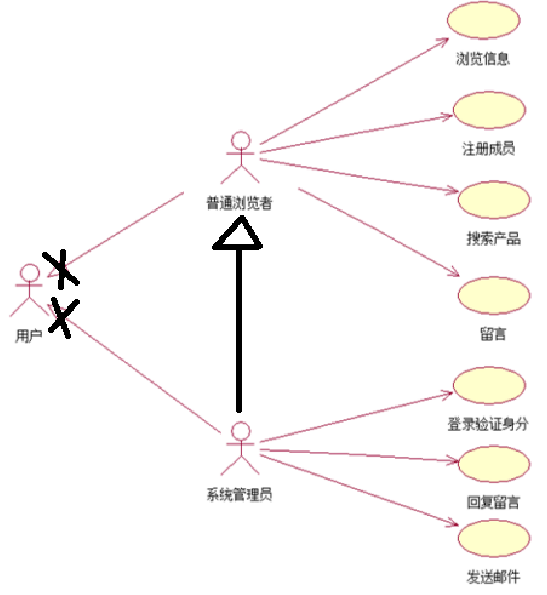
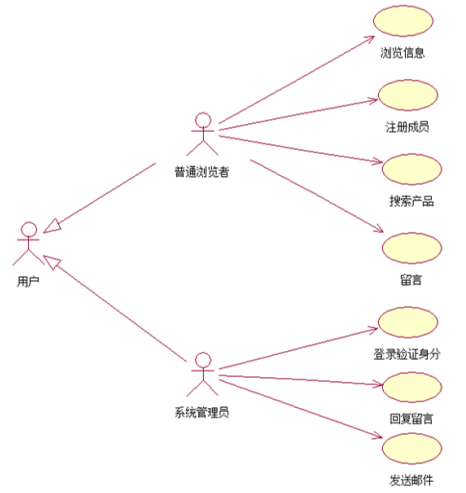
GITBOOK-11: No subject

diff --git a/SUMMARY.md b/SUMMARY.md
@@ -2,7 +2,7 @@
 
 * [🎓 System Analysis and Design & Software Systems & Software Architecture](README.md)
 
-## 一、简答题、综合分析与设计题
+## 🕵♂ 一、简答题、综合分析与设计题
 
 * [1.](yi-jian-da-ti-zong-he-fen-xi-yu-she-ji-ti/1..md)
 * [2.](yi-jian-da-ti-zong-he-fen-xi-yu-she-ji-ti/2..md)
@@ -74,3 +74,26 @@
 * [68.](yi-jian-da-ti-zong-he-fen-xi-yu-she-ji-ti/68..md)
 * [69.](yi-jian-da-ti-zong-he-fen-xi-yu-she-ji-ti/69..md)
 * [70.](yi-jian-da-ti-zong-he-fen-xi-yu-she-ji-ti/70..md)
+
+## 🎓 二、论述题
+
+* [1.](er-lun-shu-ti/1..md)
+* [2.](er-lun-shu-ti/2..md)
+* [3.](er-lun-shu-ti/3..md)
+* [4.](er-lun-shu-ti/4..md)
+* [5.](er-lun-shu-ti/5..md)
+* [6.](er-lun-shu-ti/6..md)
+* [7.](er-lun-shu-ti/7..md)
+* [8.](er-lun-shu-ti/8..md)
+* [9.](er-lun-shu-ti/9..md)
+* [10.](er-lun-shu-ti/10..md)
+* [11.](er-lun-shu-ti/11..md)
+* [12.](er-lun-shu-ti/12..md)
+* [13.](er-lun-shu-ti/13..md)
+* [14.](er-lun-shu-ti/14..md)
+* [15.](er-lun-shu-ti/15..md)
+* [16.](er-lun-shu-ti/16..md)
+* [17.](er-lun-shu-ti/17..md)
+* [18.](er-lun-shu-ti/18..md)
+* [19.](er-lun-shu-ti/19..md)
+* [20.](er-lun-shu-ti/20..md)

diff --git a/er-lun-shu-ti/20..md b/er-lun-shu-ti/20..md
@@ -1,0 +1,10 @@
+# 20.
+
+下图为用例文档中的事件流描述-用例交互四部曲示意图，请从需求和分析两个阶段根据下图回答 问题：
+
+<figure><img src="../.gitbook/assets/image (80).png" alt=""><figcaption></figcaption></figure>
+
+
+
+1. 需求阶段的用例文档是从用户角度看待用户问题，侧重描述交互的 1(动作)、4(响应)步的事件流， 请解释为什么？&#x20;
+2. 分析阶段和设计阶段则需要从系统角度看待用户问题，重点关注交互的 2(验证)、3(处理)步的事 件流，请解释为什么？

diff --git a/yi-jian-da-ti-zong-he-fen-xi-yu-she-ji-ti/8..md b/yi-jian-da-ti-zong-he-fen-xi-yu-she-ji-ti/8..md
@@ -2,8 +2,8 @@
 
 功能需求：系统管理员可以完成普通参与者的工作，但下图为参与者与参与者之间泛化关系的误用， 请修改正确。
 
-<figure><img src="../.gitbook/assets/image.png" alt=""><figcaption></figcaption></figure>
+<figure><img src="../.gitbook/assets/image (1).png" alt=""><figcaption></figcaption></figure>
 
 答案：
 
-<figure><img src="../.gitbook/assets/image (1).png" alt=""><figcaption></figcaption></figure>
+<figure><img src="../.gitbook/assets/image (1) (1).png" alt=""><figcaption></figcaption></figure>

diff --git a/er-lun-shu-ti/14..md b/er-lun-shu-ti/14..md
@@ -1,0 +1,3 @@
+# 14.
+
+在模型驱动架构（MDA）中，系统开发过程就是建模的过程，从需求、分析、设计、实现到测试， 所有阶段的交付物都是模型。请问：RUP 开发过程都建立了哪些模型？并根据建立的第 1 个模型说明 与后续的每个模型的关系（提示：除第 1 个模型外，后续的所有模型都来自于第 1 个模型）。

diff --git a/yi-jian-da-ti-zong-he-fen-xi-yu-she-ji-ti/5..md b/yi-jian-da-ti-zong-he-fen-xi-yu-she-ji-ti/5..md
@@ -2,7 +2,7 @@
 
 根据给出的设计类图，请分别写出类 Master、ClassA 和 Course 的 Java 语言框架代码。
 
-<figure><img src="../.gitbook/assets/image (1) (1).png" alt=""><figcaption></figcaption></figure>
+<figure><img src="../.gitbook/assets/image (1) (1) (1).png" alt=""><figcaption></figcaption></figure>
 
 答案：
 

diff --git a/er-lun-shu-ti/17..md b/er-lun-shu-ti/17..md
@@ -1,0 +1,5 @@
+# 17.
+
+MDA 的关键之处是模型在软件开发中扮演了非常重要的角色，请问对“模型”进行建模的目的是为 了做什么？（限 100 字以内）
+
+<figure><img src="../.gitbook/assets/image (79).png" alt=""><figcaption></figcaption></figure>

diff --git a/er-lun-shu-ti/10..md b/er-lun-shu-ti/10..md
@@ -1,0 +1,3 @@
+# 10.
+
+为什么说用例可以捕获系统的需求？系统总体需求或软件所包含的整体功能需求可以用哪个模型 来替换传统的基于功能分解的结构化方法？请画出“ATM 取款机”的用例模型。

diff --git a/yi-jian-da-ti-zong-he-fen-xi-yu-she-ji-ti/2..md b/yi-jian-da-ti-zong-he-fen-xi-yu-she-ji-ti/2..md
@@ -4,4 +4,4 @@
 
 答案：
 
-<figure><img src="../.gitbook/assets/image (1) (1) (1).png" alt=""><figcaption></figcaption></figure>
+<figure><img src="../.gitbook/assets/image (1) (1) (1) (1).png" alt=""><figcaption></figcaption></figure>

diff --git a/er-lun-shu-ti/4..md b/er-lun-shu-ti/4..md
@@ -1,0 +1,3 @@
+# 4.
+
+你是如何理解“编写一段能工作的、灵巧的代码是一回事，而编写一段能支持某个长久业务的代码则 完全是另一回事”这句话的？它阐述了一个什么道理？

diff --git a/er-lun-shu-ti/2..md b/er-lun-shu-ti/2..md
@@ -1,0 +1,5 @@
+# 2.
+
+请参考下图，请阐述对软件开发过程中付出的代价进行分析？其目的是为了什么？
+
+<figure><img src="../.gitbook/assets/image.png" alt=""><figcaption></figcaption></figure>

diff --git a/er-lun-shu-ti/19..md b/er-lun-shu-ti/19..md
@@ -1,0 +1,3 @@
+# 19.
+
+课程对软件工程师必须具备的“抽象、分类、分解、复用”4 项技能进行了全面的涵盖和应用，请解 释一下你对此是如何理解的？（限 300 字以内）

diff --git a/er-lun-shu-ti/16..md b/er-lun-shu-ti/16..md
@@ -1,0 +1,5 @@
+# 16.
+
+请根据下图阐述一下你对软件设计工作的理解。（限 100 字以内）
+
+<figure><img src="../.gitbook/assets/image (78).png" alt=""><figcaption></figcaption></figure>
